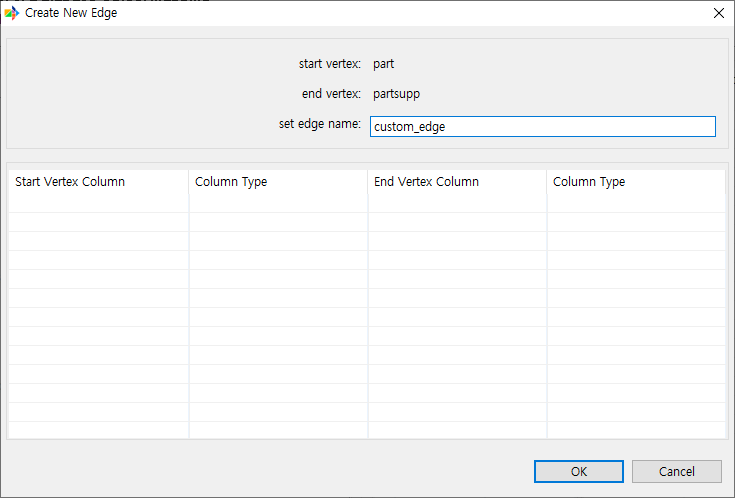
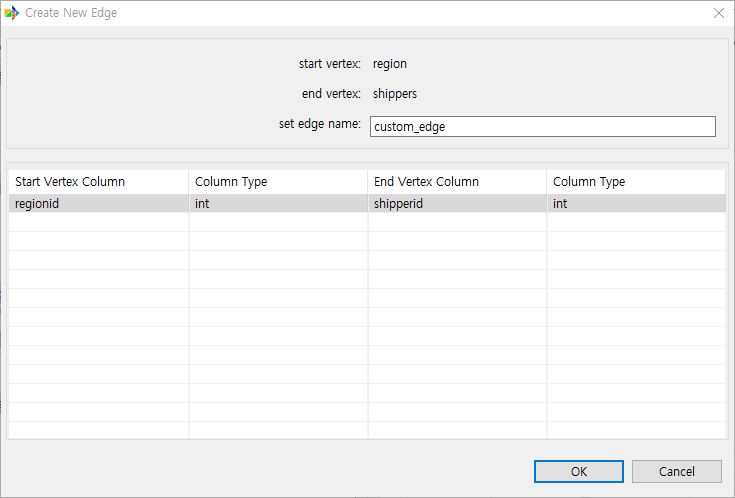
[GT-165] 메뉴얼 내용 수정
- cdc 관련 파일 삭제
- 내용 최신화
- 사진 최신화

diff --git a/MiT_Manual/ko/getting_start/R2G/4.object_mapping.rst b/MiT_Manual/ko/getting_start/R2G/4.object_mapping.rst
@@ -53,7 +53,7 @@ GDB column의 특정 데이터 타입은 변경이 가능하다.
 
 .. image:: ./image/change_data_type.png
 
-현재는 자기 자신의 타입과, string으로의 타입 변경만을 지원한다.
+자기 자신의 타입과, string으로의 타입 변경만을 지원한다.
 
 ========================
 오브젝트 이름 변경 기능
@@ -92,17 +92,27 @@ vertex 또는 edge의 이름을 수정할 수 있다.
 
 .. image:: ./image/add_edge_step2.png
 
-3. Create New Edge dialog에서 edge 이름을 입력한다.
+3. Create New Edge dialog에서 edge 이름을 입력하고, 아래 테이블에서 FK를 연결할 컬럼을 선택한다. 이때 각 컬럼은 타입이 동일해야 한다.
 
 .. image:: ./image/add_edge_step3.png
 
-4. 아래 테이블에서 FK를 연결할 컬럼을 선택한다. 이때 각 컬럼은 타입이 동일해야 한다.
-
-.. image:: ./image/add_edge_step4.png
-
-5. 사용자 지정 edge가 생성된 것을 확인 할 수 있다.
+4. 그 후 확인을 누르면 사용자 지정 edge가 생성된 것을 확인 할 수 있다.
 
 .. image:: ./image/add_edge_step5.png
+
+=======================================
+edge 삭제 기능
+=======================================
+
+edge를 삭제할 수 있다.
+
+1. 삭제할 edge를 선택한 후 우클릭한다.
+
+.. image:: ./image/select_edge_to_delete.png
+
+2. [Delete Edge]를 선택하면 선택한 edge가 삭제된다.
+
+.. image:: ./image/delete_edge.png
 
 ========================
 redo, undo 기능
@@ -110,16 +120,36 @@ redo, undo 기능
 
 오브젝트 이름 변경, edge 추가 등의 기능을 수행한 뒤 취소하고 싶거나 다시 수행하고 싶은 경우 redo, undo 기능을 사용할 수 있다
 
-방법은 아래와 같다
+방법은 아래와 같다.
 
-1. redo
+---------
+undo
+---------
 
-1-1. 무언가 수정을 진행한 후 아무곳이나 선택 후 우클릭한다.
+1. 무언가 명령을 취소한 후 아무곳이나 선택 후 우클릭한다.
 
-1-2. redo 버튼을 선택하면 가장 최근에 시행한 명령이 취소된다.
+.. image:: ./image/undo_enable.png
 
-2. undo
+2. undo 버튼을 선택하면 명령이 취소된다.
 
-2-1. 무언가 명령을 취소한 후 아무곳이나 선택 후 우클릭한다.
+.. image:: ./image/execute_undo.png
 
-2-2. undo 버튼을 선택하면 취소됐던 명령이 다시 실행된다.
+---------
+redo
+---------
+
+1. undo를 실행한 후 아무곳이나 선택 후 우클릭한다.
+
+.. image:: ./image/redo_enable.png
+
+2. redo 버튼을 선택하면 가장 최근에 취소됐던 명령이 다시 실행된다.
+
+.. image:: ./image/execute_redo.png
+
+====================
+two-way edge
+====================
+
+기본적으로 이관되는 모든 edge는 단방향이다. 만약 gdb로 이관하였을 때 edge가 양방향으로 연결되어야 할 필요가 있다면 해당 옵션을 사용하면 된다.
+
+.. image:: ./image/two_way_edge.png

diff --git a/MiT_Manual/backup/CDC/0.prepare.rst b/MiT_Manual/backup/CDC/0.prepare.rst
@@ -1,0 +1,51 @@
+:meta-keywords: guide tool
+:meta-description: Introducing the feature which CDC migration
+
+**************************************
+CDC 이관 준비
+**************************************
+
+======================
+script
+======================
+
+CDC 기능은 스크립트를 통하여 진행된다.
+
+따라서 CDC기능을 사용하는 CUBRID DBMS를, GDB에 최소 한번 이관해야 한다.
+
+script 파일은 xml 형식이며 이관을 수행하면 자동으로 생성된다.
+
+.. image:: cdc_image/cdc_script.png
+
+.. note::
+    script파일은 아래의 경로에 생성된다
+    ${MiT_workspace}/workspace/cmt/script/*.script
+
+=========================
+Agent 에서 출력한 파일
+=========================
+
+CUBRID에서 CDC기능을 사용하여 변경된 데이터를 가져오기 위해서는 C API를 사용해야 한다.
+
+Agent를 CUBRID가 설치된 Linux서버에서 실행하면 Agent에 중단 명령을 내릴때까지 계속해서 데이터를 추출한다.
+
+현재 CDC 기능을 수행하면 RDB 기준 insert된 데이터만 가져온다, 즉 delete, update된 정보는 가져오지 않는다.
+
+출력 예시는 아래와 같다.
+
+.. image:: cdc_image/cdc_data_file.png
+
+.. note::
+    Agent가 데이터 파일을 출력하는 위치는 "${CUBRID}/cdc_output/" 이다. 간단한 txt 형식으로 출력된다.
+
+==============
+MiT CLI 버전
+==============
+
+CDC 기능은 CLI 이관과 입력 command 차이만 있을 뿐 큰 틀은 CLI 이관과 동일하다. 따라서 MiT CLI 버전과 실행 환경이 필요하다.
+
+윈도우, 리눅스 둘 다 진행이 가능하다.
+
+Linux MiT는 아래와 같은 구성 요소를 가진다.
+
+.. image:: cdc_image/cdc_linux_cmt.png

diff --git a/MiT_Manual/ko/getting_start/R2G/7.migration_report.rst b/MiT_Manual/ko/getting_start/R2G/7.migration_report.rst
@@ -15,6 +15,24 @@
 
 vertex와 edge의 추출 개수, 입력 개수, 실패한 개수, 진행도 등을 확인할 수 있다.
 
+===========
+상세 정보
+===========
+
+.. image:: ./image/detail_info.png
+
+vertex, edge의 이관에 대한 상세한 정보를 확인할 수 있다.
+
+.. /image:: ./image/detail_info.png
+
+- status: 이관 성공, 실패 여부를 알려준다.
+
+- type: 이관된 object의 vertex, edge, join table edge 여부를 표시한다.
+
+- name: object의 이름을 표시한다.
+
+- source db object: RDB의 어떤 object가 이관되면서 변경된 것인지 표시한다.
+
 =====
 로그
 =====

diff --git a/MiT_Manual/backup/CDC/1.cdc_execute.rst b/MiT_Manual/backup/CDC/1.cdc_execute.rst
@@ -1,0 +1,22 @@
+:meta-keywords: guide tool
+:meta-description: execute cdc data feature
+
+****************************************************
+CDC 기능 실행
+****************************************************
+
+===============
+실행 command
+===============
+
+아래의 옵션을 작성하여 기능을 실행할 수 있다.
+
+``migration.jar cdc [script위치]``
+
+예시)
+
+.. image:: cdc_image/cdc_example_line.png
+
+아래와 같이 결과를 확인할 수 있으며 vertex, edge의 export, import 개수가 동일하면 성공적으로 완료된 것이다.
+
+.. image:: cdc_image/cdc_migration_success.png

diff --git a/MiT_Manual/backup/5.CDC.rst b/MiT_Manual/backup/5.CDC.rst
@@ -1,0 +1,17 @@
+:meta-keywords: guide tool
+:meta-description: GDB to RDB CLI migration
+
+************************
+CDC 데이터 이관
+************************
+
+CDC 기능을 이용하여 마지막 이관 시점 이후에 추가된 데이터만 이관하는 기능이다.
+
+해당 기능은 CUBRID의 CDC 기능을 사용하여 변경된 데이터를 출력한 후 출력한 데이터를 GDB에 적용하는 구조이다. 따라서 source가 CUBRID인 경우만 가능하다.
+
+또한 script를 사용한 cdc 환경에서만 구동이 가능하다.
+
+.. toctree::
+
+    CDC/0.prepare.rst
+    CDC/1.cdc_execute.rst

diff --git a/MiT_Manual/ko/getting_start/1.GDB_to_RDB.rst b/MiT_Manual/ko/getting_start/1.GDB_to_RDB.rst
@@ -7,8 +7,6 @@ GDB to RDB 이관하기
 
 vertex, edge로 구성된 GDB의 데이터를 RDB의 table, relation 변환하여 이관하는 기능이다.
 
-현재는 CUBRID만 target으로 설정 가능하다. 
-
 .. toctree::
     :titlesonly:
 

diff --git a/MiT_Manual/ko/getting_start/G2R/4.g2r_report.rst b/MiT_Manual/ko/getting_start/G2R/4.g2r_report.rst
@@ -28,5 +28,3 @@ Detail
 .. image:: G2R_image/g2r_detail.png
 
 이관 결과를 좀 더 자세히 확인할 수 있다.
-
-이 외의 옵션은 다른 이관과 동일하거나 추후 삭제될 예정인 항목이다.

diff --git a/MiT_Manual/ko/getting_start/4.CLI.rst b/MiT_Manual/ko/getting_start/4.CLI.rst
@@ -11,4 +11,3 @@ CLI(CommandLine Interface) 환경에서 미리 생성된 script를 통해 이관
 
 .. toctree::
     CLI/0.cli_prepare.rst
-    CLI/1.cdc_execute.rst
